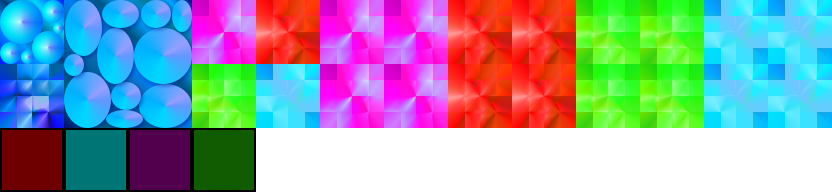
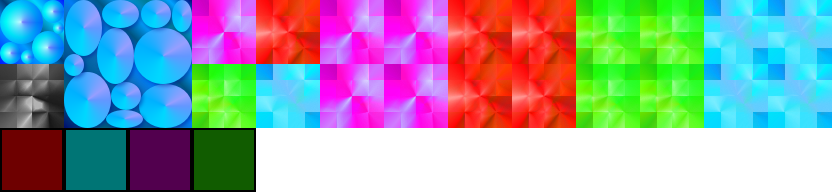
added particle for button

Changed region(s): [[0.0, 0.3125, 0.0938, 0.6875]]

diff --git a/Classes/Lifts.cpp b/Classes/Lifts.cpp
@@ -73,22 +73,22 @@ bool Lifts::init() {
 
 void Lifts::changeFireColor(ParticleSystemQuad* p, std::string name) {
     if (name == "bluered" or name == "thisbluered") {
-        if (isBlue) {
-            p->setStartColor(Color4F(5, 5, 255, 155));
-            p->setEndColor(Color4F(0, 0, 255, 255));
+        if (!isBlue) {
+            p->setStartColor(Color4F(0, 255, 255, 255));
+            p->setEndColor(Color4F(0, 1, 1, 255));
         }
         else {
-            p->setStartColor(Color4F(255, 5, 5, 155));
-            p->setEndColor(Color4F(255, 0, 0, 255));
+            p->setStartColor(Color4F(50, 0, 0, 255));
+            p->setEndColor(Color4F(1, 0, 0, 255));
         }
     } else {
-        if (isGreen) {
-            p->setStartColor(Color4F(5, 255, 5, 155));
-            p->setEndColor(Color4F(0, 255, 0, 255));
+        if (!isGreen) {
+            p->setStartColor(Color4F(0, 50, 0, 255));
+            p->setEndColor(Color4F(0, 1, 0, 255));
         }
         else {
-            p->setStartColor(Color4F(255, 5, 255, 155));
-            p->setEndColor(Color4F(255, 0, 255, 255));
+            p->setStartColor(Color4F(50, 0, 50, 255));
+            p->setEndColor(Color4F(1, 0, 1, 255));
         }
     }
 }
@@ -113,11 +113,7 @@ Vector<ParticleSystemQuad*> Lifts::initFires() {
         auto h = button->getContentSize().height;
         auto w = button->getContentSize().width;
         ParticleSun *p_emitter = ParticleSun::createWithTotalParticles(100);
-        p_emitter->setEmitterMode(ParticleSystem::Mode::RADIUS);
-        p_emitter->setStartRadius(0);
-        p_emitter->setStartRadiusVar(fmax(h,w)*2);
-        p_emitter->setEndRadiusVar(fmax(h,w)*2);
-        p_emitter->setScale(scale_map);
+        p_emitter->setScale(scale_map*3);
         
         auto name = button->getName();
         changeFireColor(p_emitter, name);
@@ -211,7 +207,7 @@ Sprite *Lifts::makeTexturedSprite(std::string sprite_name, int tag, cocos2d::Poi
     auto w = size.width;
     auto h = size.height;
     
-    if (tag == LIFT_TAG || tag == BUTTON_TAG) {
+    if (tag == LIFT_TAG) {
         Vector<SpriteFrame *> animFogFrames;
         animFogFrames.reserve(6);
         animFogFrames.pushBack(SpriteFrameCache::getInstance()->getSpriteFrameByName("fog01.png"));
@@ -228,6 +224,12 @@ Sprite *Lifts::makeTexturedSprite(std::string sprite_name, int tag, cocos2d::Poi
         sprite->setScale(w/sprite->getContentSize().width, h/sprite->getContentSize().height);
         
         sprite->runAction(RepeatForever::create(Animate::create(animationFog)));
+        sprite->setOpacity(0);
+    } else if (tag == BUTTON_TAG) {
+        sprite = Sprite::create("black_pixel.png");
+        sprite->getTexture()->setTexParameters({.minFilter =  GL_LINEAR, .magFilter =  GL_LINEAR, .wrapS =  GL_REPEAT, .wrapT =  GL_REPEAT});
+        sprite->setTextureRect(Rect(p.x, p.y, size.width, size.height));
+        
         sprite->setOpacity(0);
     } else {
         sprite = Sprite::create();
